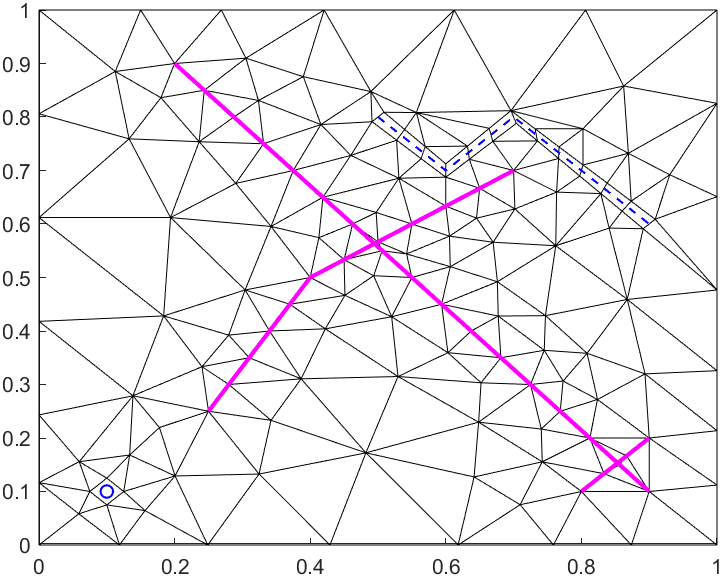
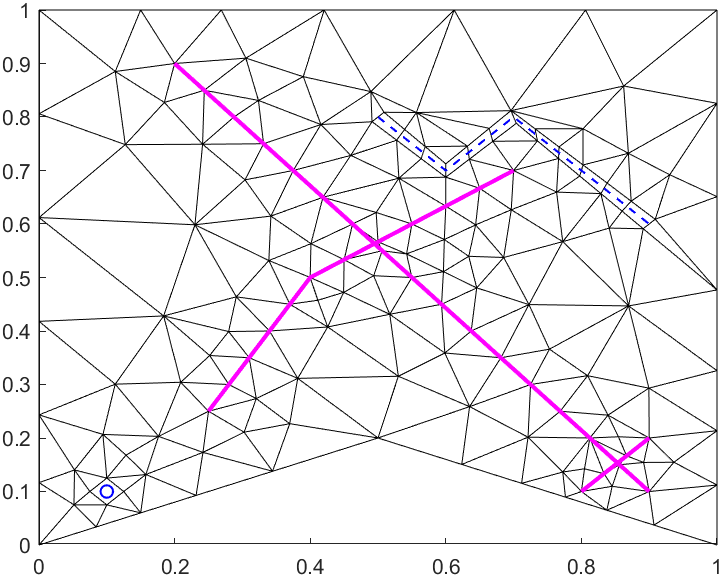
Add complex domain to basic example

diff --git a/code/gmsh_to_mrst/examples/examplePebiGrid2DGmsh.m b/code/gmsh_to_mrst/examples/examplePebiGrid2DGmsh.m
@@ -3,7 +3,9 @@
 clear all;
 % Setup required variables
 resGridSize = 0.2;
-domain = [1, 1];
+domain = [
+    0 0; 0.5 0.2; 1 0; 1 1; 0 1;
+];
 faceConstraints = {
     [0.25 0.25; 0.4 0.5; 0.7 0.7;];
     [0.8 0.1; 0.9 0.2];
